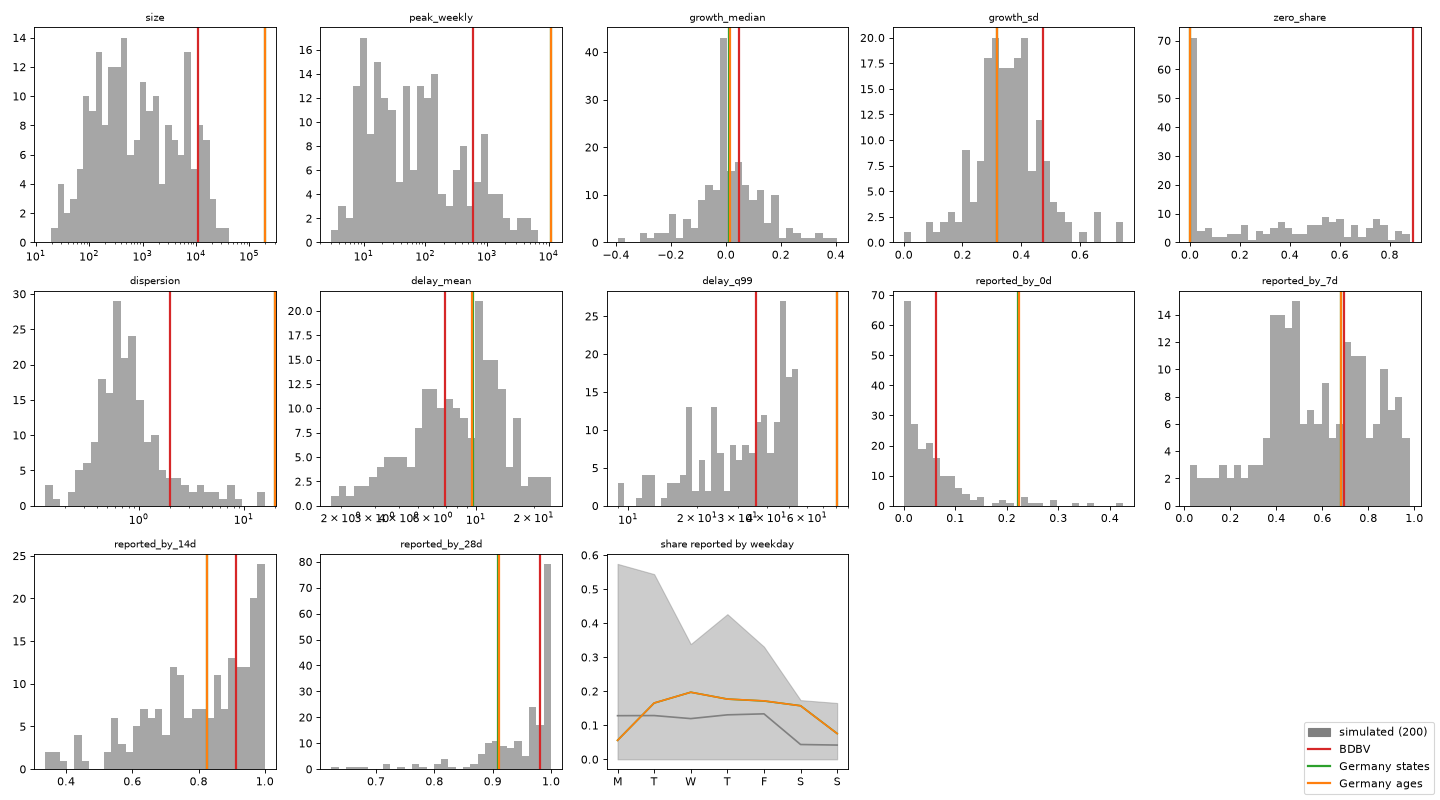
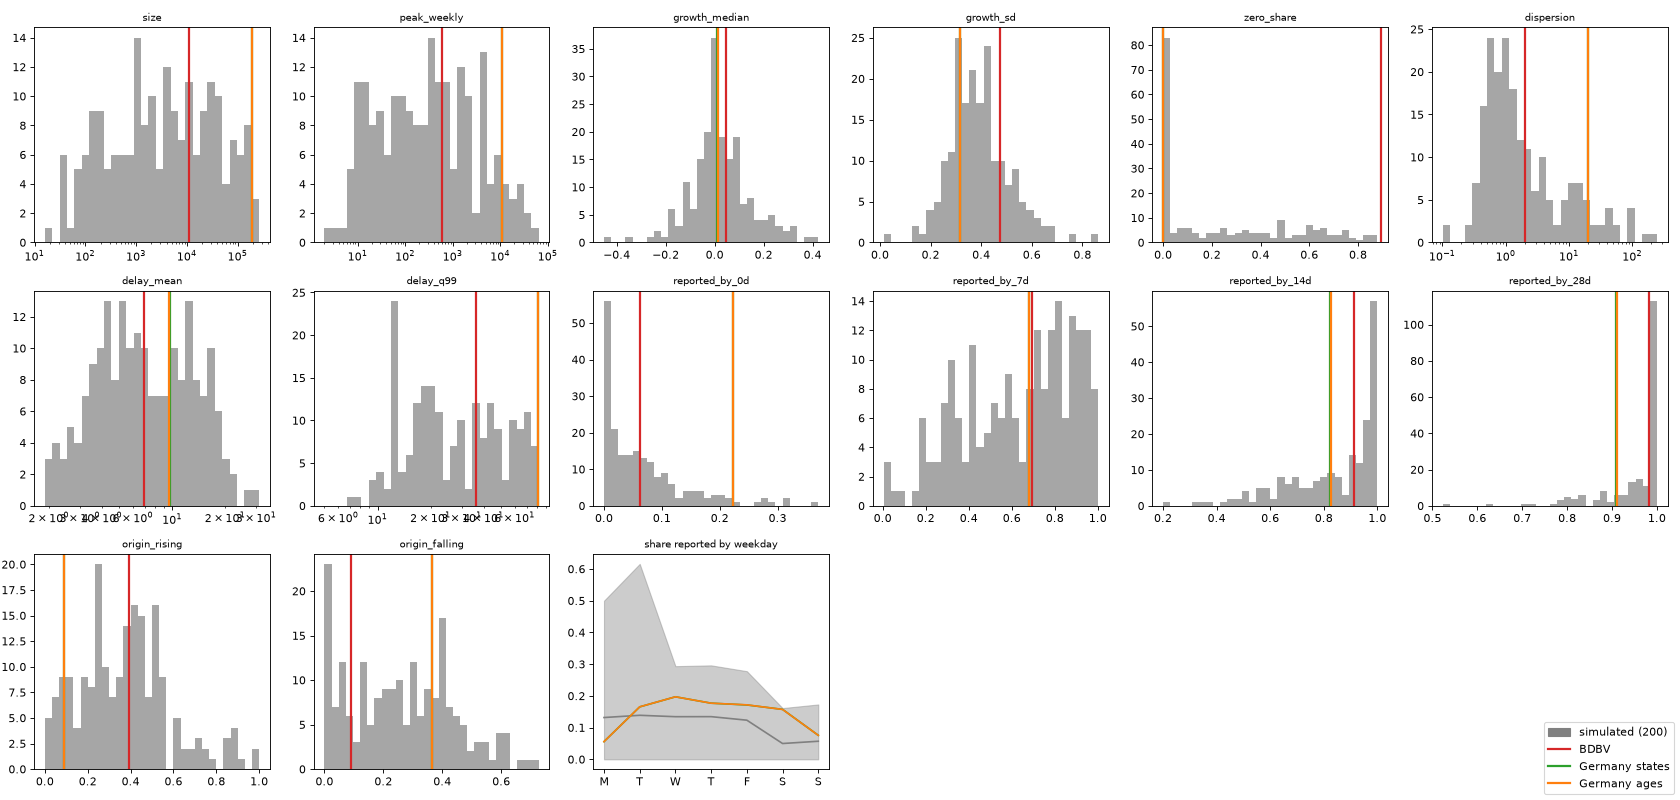
Realism check of 373 r2-cal5 simulated outbreaks against BDBV and the German development half, with the phase at forecast origins

diff --git a/results/finetune/sim-realism.md b/results/finetune/sim-realism.md
@@ -1,14 +1,16 @@
-|                 |   sim q5 |   sim q50 |   sim q95 |      BDBV |   Germany states |   Germany ages |
-|:----------------|---------:|----------:|----------:|----------:|-----------------:|---------------:|
-| size            |   54.75  |   667.5   | 15001.6   | 10878     |       195661     |     194663     |
-| peak_weekly     |    7     |    53     |  1569.55  |   594     |        10940     |      10902     |
-| growth_median   |   -0.194 |     0     |     0.23  |     0.047 |            0.01  |          0.014 |
-| growth_sd       |    0.184 |     0.354 |     0.538 |     0.475 |            0.317 |          0.317 |
-| zero_share      |    0     |     0.28  |     0.777 |     0.893 |            0.001 |          0     |
-| dispersion      |    0.291 |     0.707 |     4.493 |     1.988 |           19.946 |         19.92  |
-| delay_mean      |    2.995 |     8.387 |    18.386 |     6.915 |            9.664 |          9.575 |
-| delay_q99       |   13     |    36     |    53     |    36     |           81     |         81     |
-| reported_by_0d  |    0     |     0.031 |     0.203 |     0.062 |            0.223 |          0.224 |
-| reported_by_7d  |    0.17  |     0.567 |     0.92  |     0.693 |            0.68  |          0.682 |
-| reported_by_14d |    0.517 |     0.842 |     0.993 |     0.913 |            0.825 |          0.826 |
-| reported_by_28d |    0.801 |     0.974 |     1     |     0.981 |            0.909 |          0.91  |
+|                 |   sim q5 |   sim q50 |    sim q95 |      BDBV |   Germany states |   Germany ages |
+|:----------------|---------:|----------:|-----------:|----------:|-----------------:|---------------:|
+| size            |   65.95  |  3765.5   | 142025     | 10878     |       195661     |     194663     |
+| peak_weekly     |    9     |   326     |  13136.4   |   594     |        10940     |      10902     |
+| growth_median   |   -0.17  |     0.006 |      0.253 |     0.047 |            0.01  |          0.014 |
+| growth_sd       |    0.218 |     0.38  |      0.595 |     0.475 |            0.317 |          0.317 |
+| zero_share      |    0     |     0.131 |      0.746 |     0.893 |            0.001 |          0     |
+| dispersion      |    0.379 |     1.166 |     42.787 |     1.988 |           19.946 |         19.92  |
+| delay_mean      |    2.551 |     6.623 |     17.981 |     6.915 |            9.664 |          9.575 |
+| delay_q99       |   10.95  |    25.5   |     71.05  |    36     |           81     |         81     |
+| reported_by_0d  |    0     |     0.046 |      0.209 |     0.062 |            0.223 |          0.224 |
+| reported_by_7d  |    0.198 |     0.686 |      0.963 |     0.693 |            0.68  |          0.682 |
+| reported_by_14d |    0.498 |     0.905 |      1     |     0.913 |            0.825 |          0.826 |
+| reported_by_28d |    0.802 |     0.995 |      1     |     0.981 |            0.909 |          0.91  |
+| origin_rising   |    0.058 |     0.37  |      0.773 |     0.394 |            0.091 |          0.091 |
+| origin_falling  |    0     |     0.257 |      0.584 |     0.091 |            0.364 |          0.364 |
